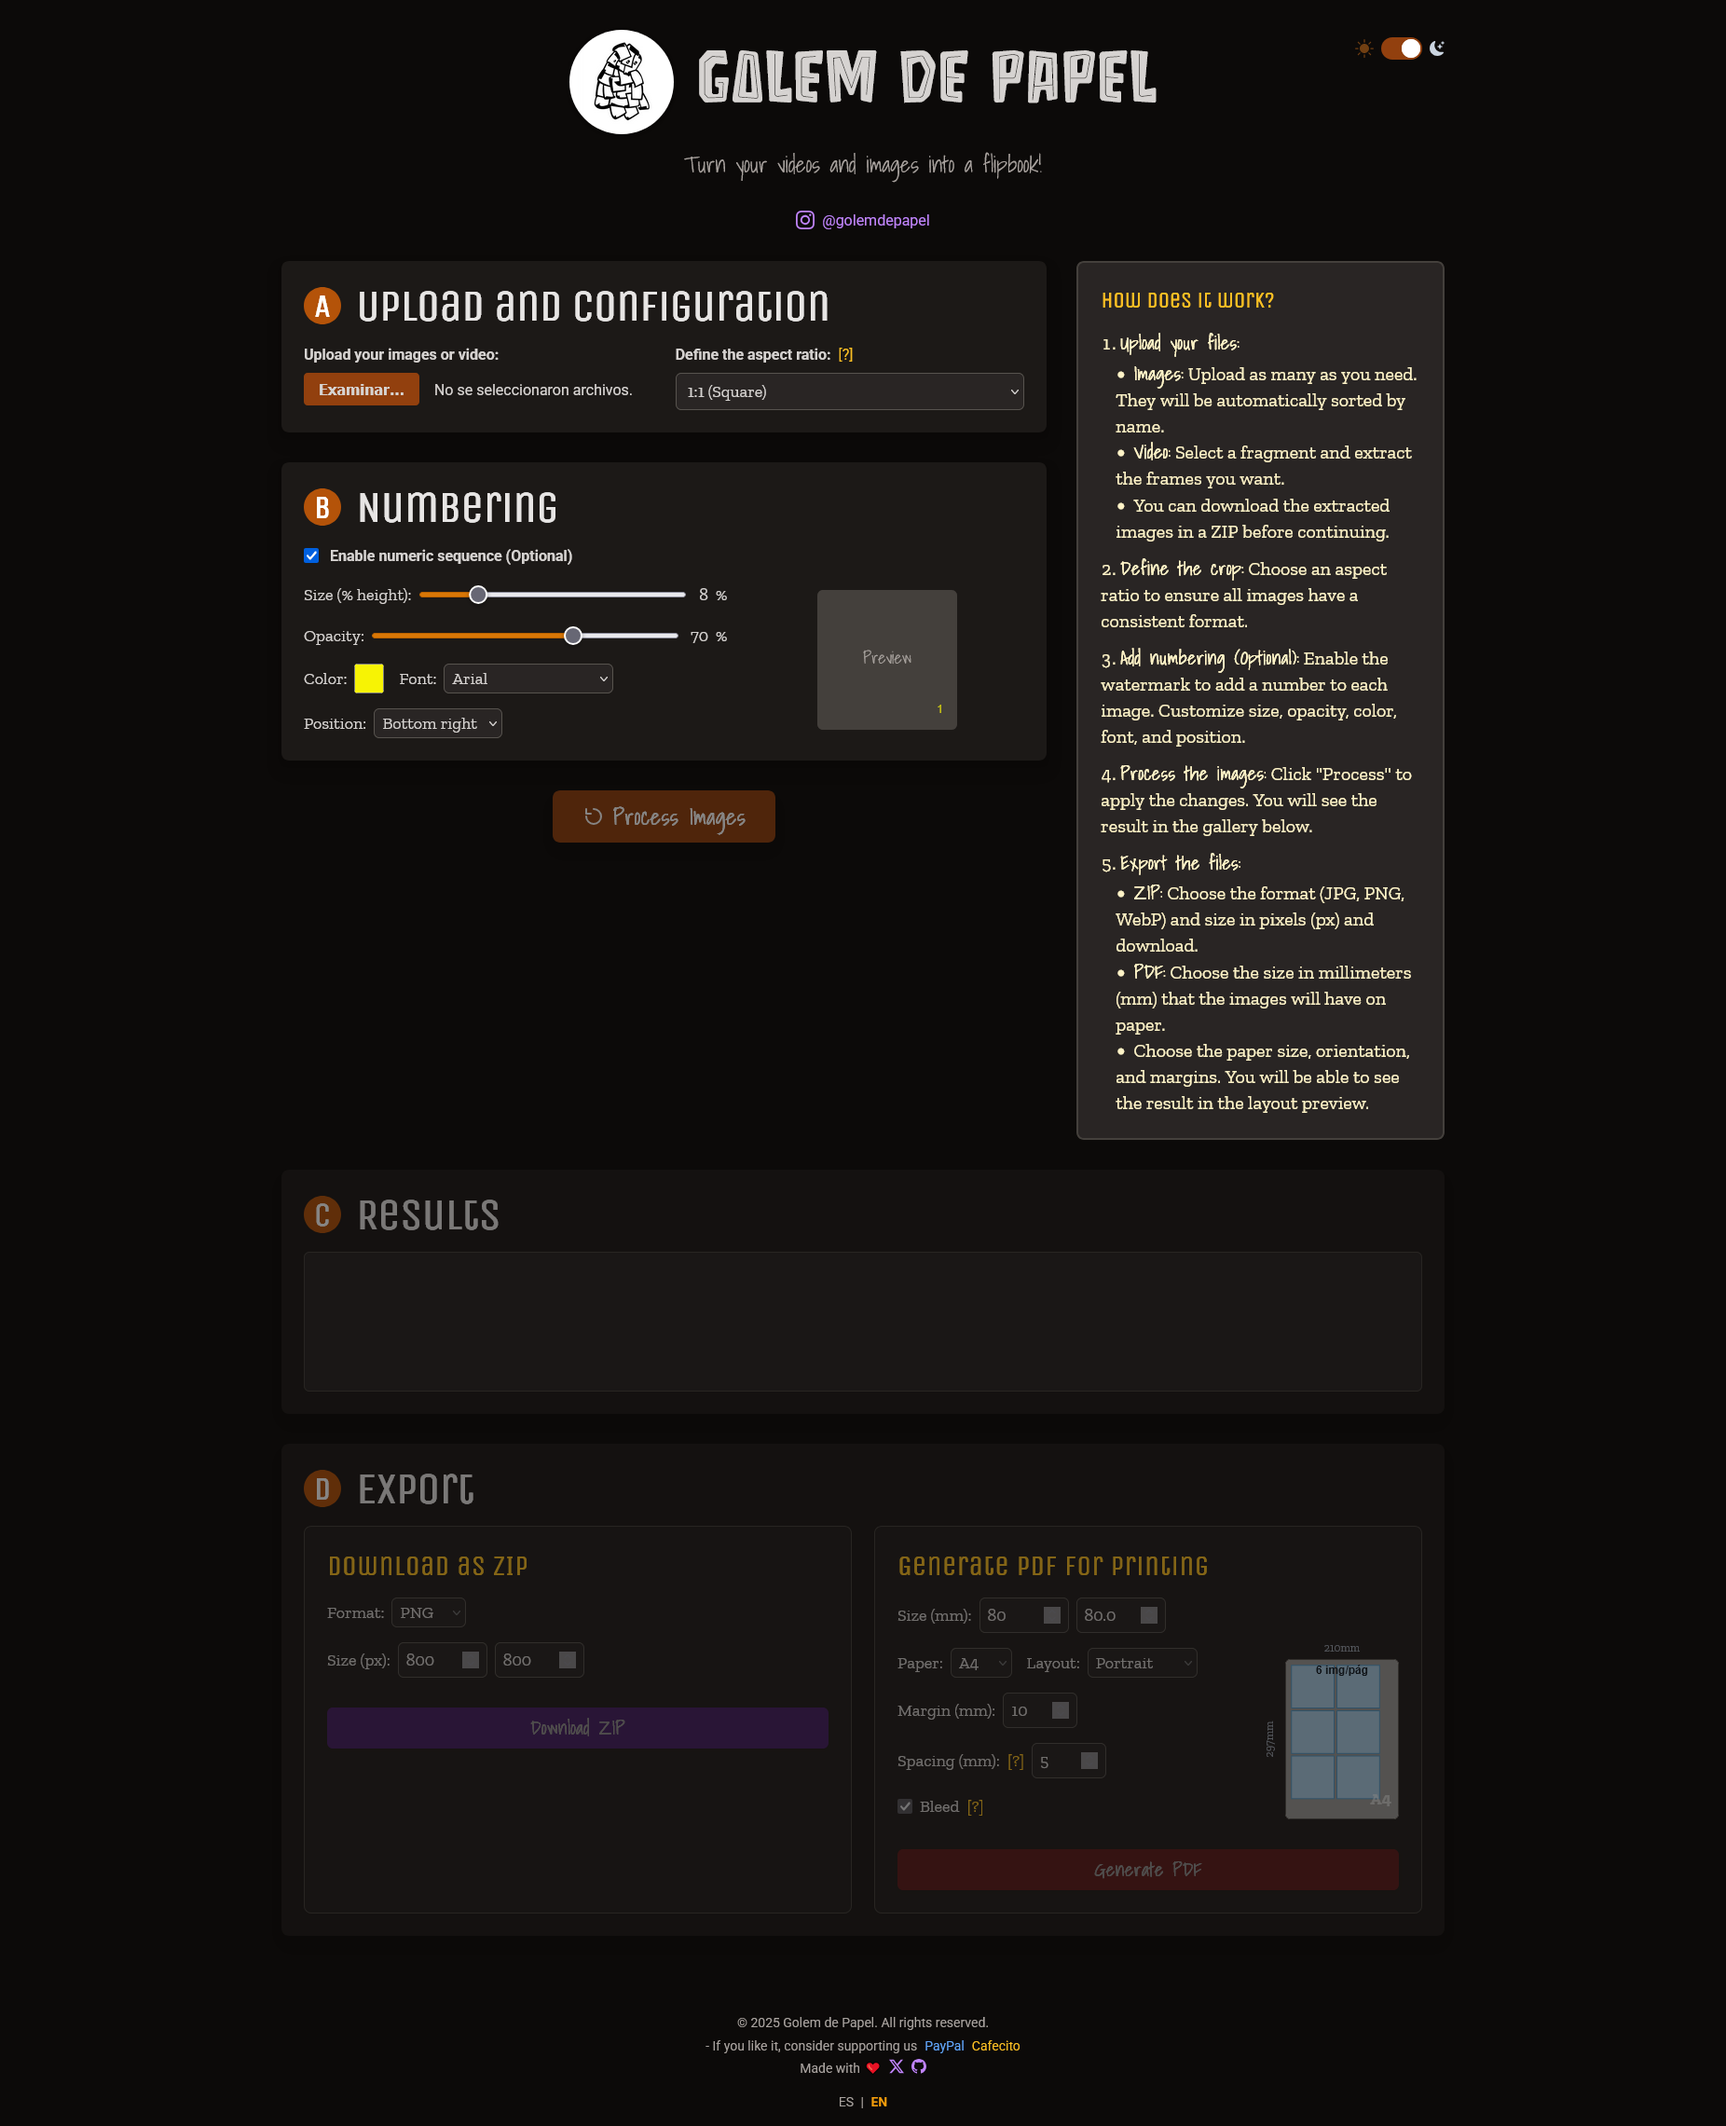
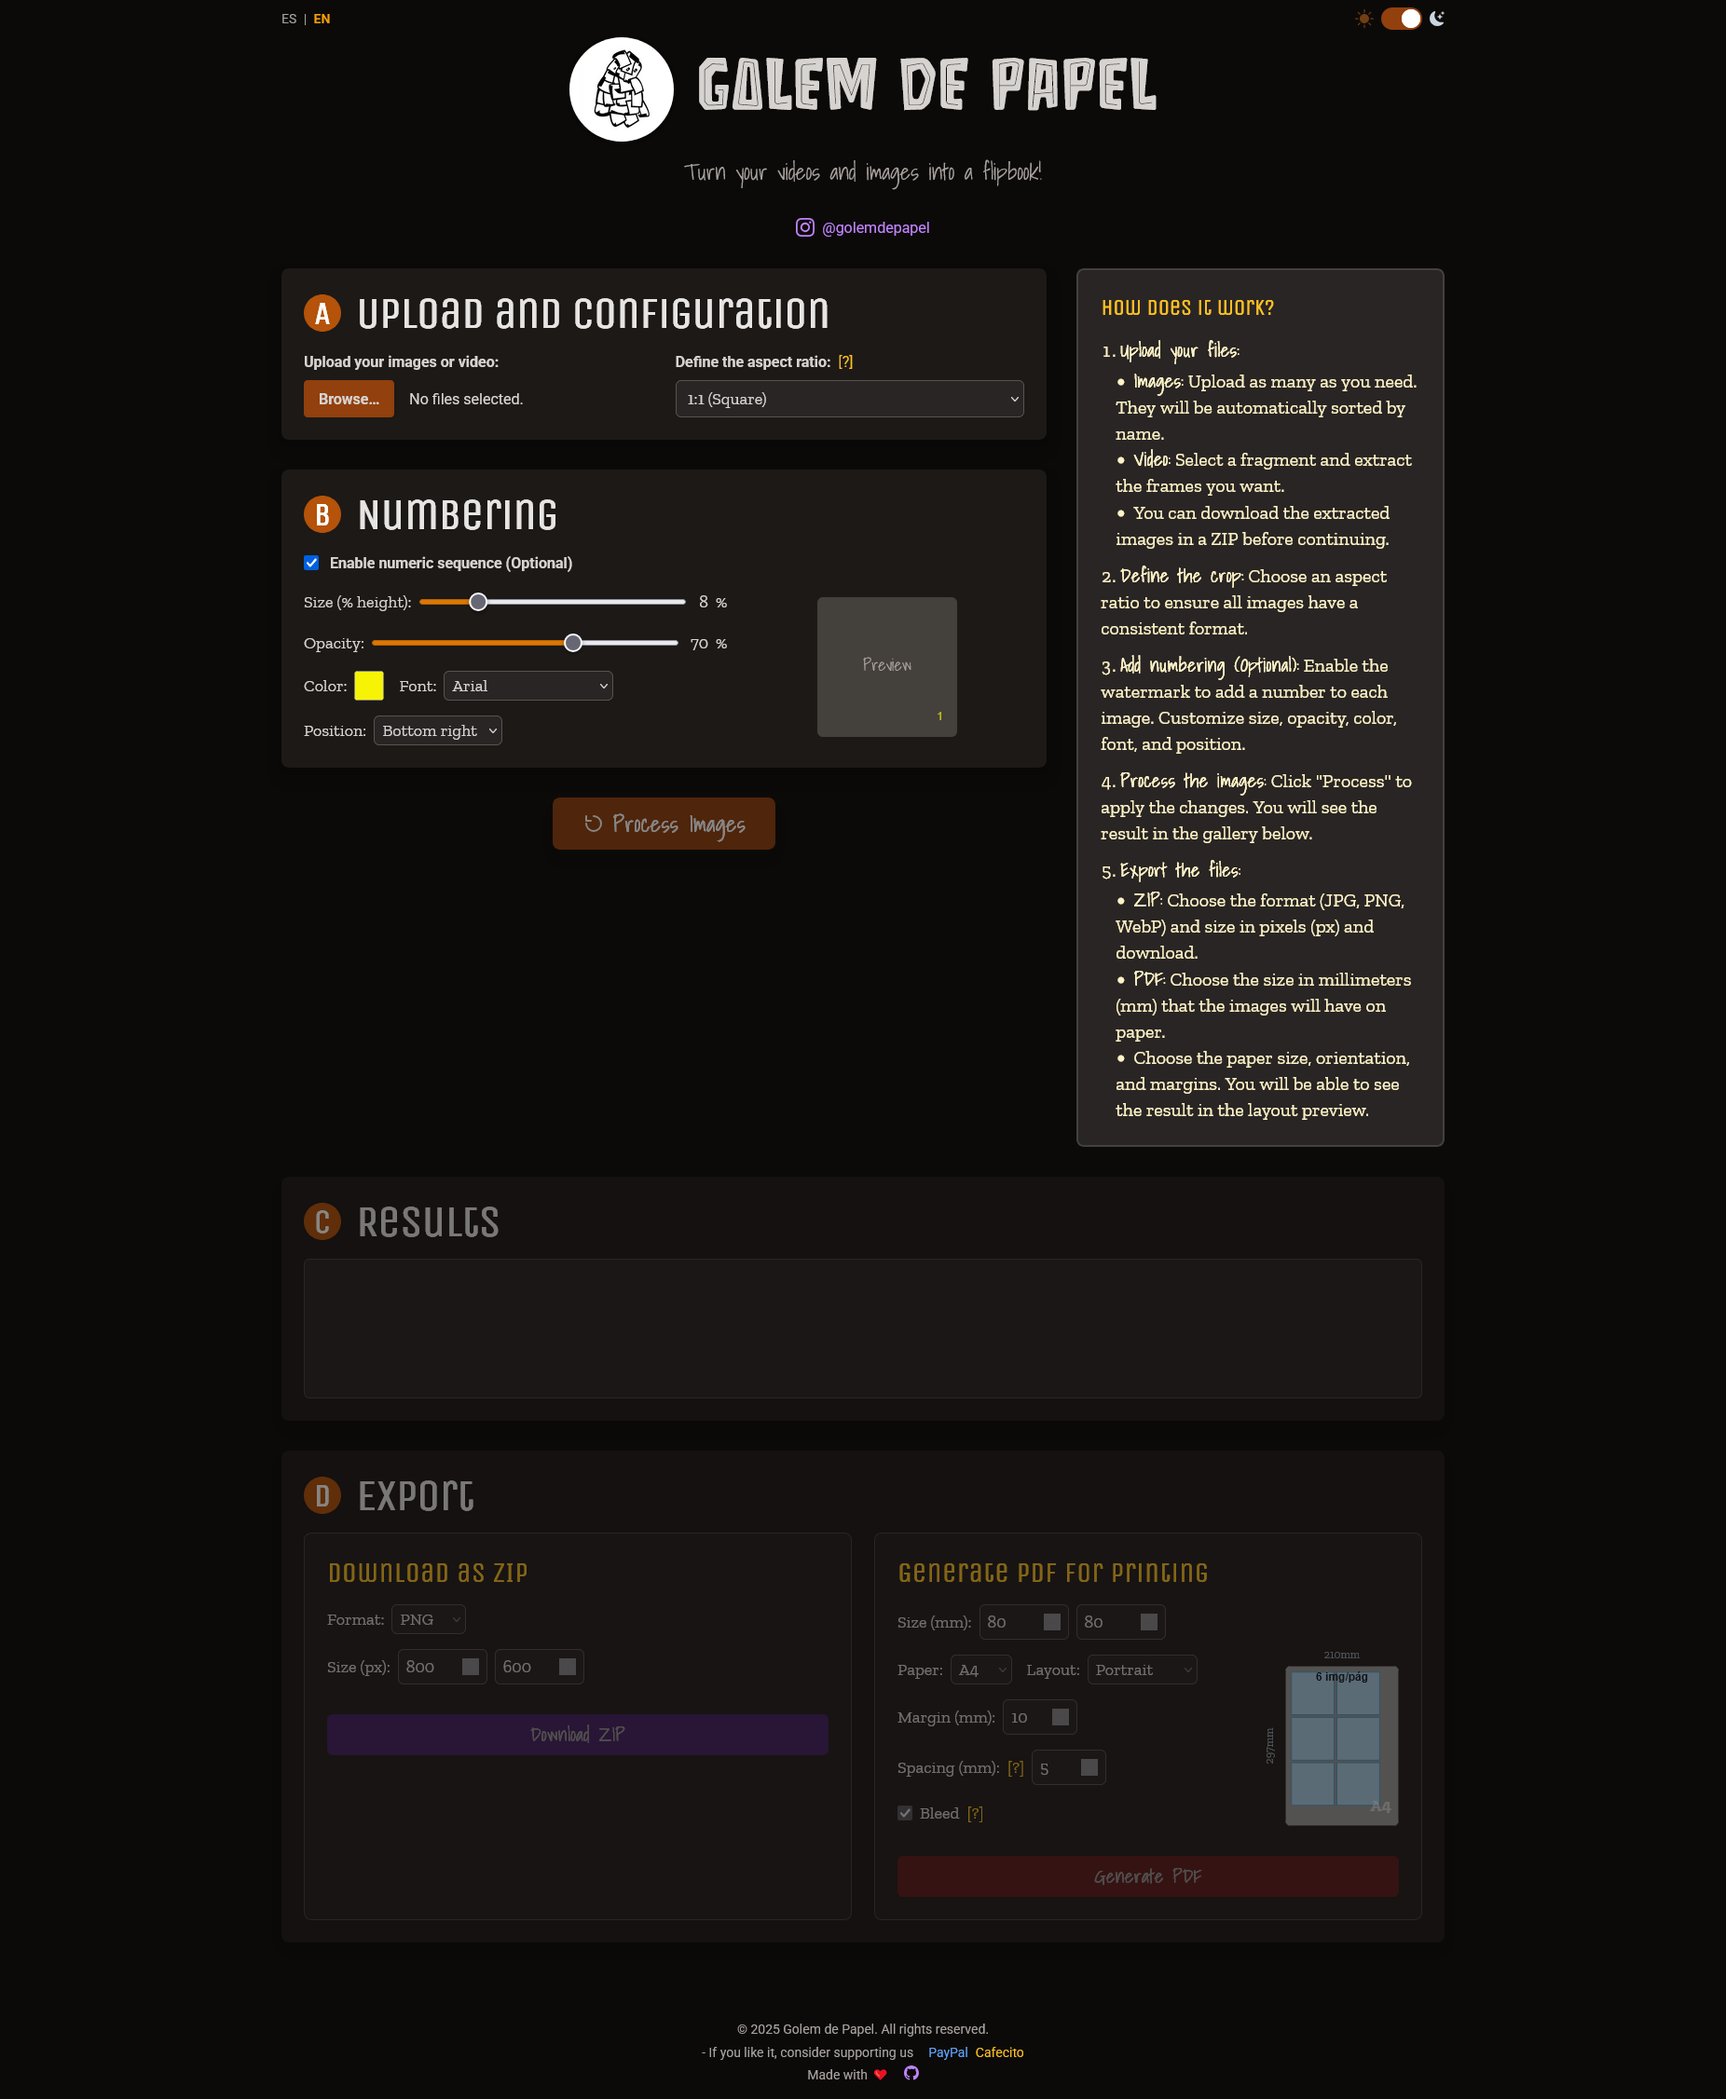
fix: UI idiomas en top, README nuevo prueba

diff --git a/docs/index.html b/docs/index.html
@@ -48,32 +48,40 @@
 </head>
 
 <body class="bg-stone-100 dark:bg-stone-950 min-h-screen">
-  <header class="mx-auto max-w-7xl flex flex-col items-center mt-8 mb-4 relative">
-    <!-- Toggle dark/light (desktop) -->
-    <div class="absolute rotate-90 -right-4 top-10 md:rotate-0 md:right-4 md:top-2 md:block">
-      <label class="relative inline-flex items-center gap-2">
-        <!-- Icono del sol -->
-        <svg xmlns="http://www.w3.org/2000/svg" width="20" height="20" fill="currentColor"
-          class="text-yellow-500 dark:text-yellow-900" viewBox="0 0 16 16">
-          <path
-            d="M12 8a4 4 0 1 1-8 0 4 4 0 0 1 8 0M8 0a.5.5 0 0 1 .5.5v2a.5.5 0 0 1-1 0v-2A.5.5 0 0 1 8 0m0 13a.5.5 0 0 1 .5.5v2a.5.5 0 0 1-1 0v-2A.5.5 0 0 1 8 13m8-5a.5.5 0 0 1-.5.5h-2a.5.5 0 0 1 0-1h2a.5.5 0 0 1 .5.5M3 8a.5.5 0 0 1-.5.5h-2a.5.5 0 0 1 0-1h2A.5.5 0 0 1 3 8m10.657-5.657a.5.5 0 0 1 0 .707l-1.414 1.415a.5.5 0 1 1-.707-.708l1.414-1.414a.5.5 0 0 1 .707 0m-9.193 9.193a.5.5 0 0 1 0 .707L3.05 13.657a.5.5 0 0 1-.707-.707l1.414-1.414a.5.5 0 0 1 .707 0m9.193 2.121a.5.5 0 0 1-.707 0l-1.414-1.414a.5.5 0 0 1 .707-.707l1.414 1.414a.5.5 0 0 1 0 .707M4.464 4.465a.5.5 0 0 1-.707 0L2.343 3.05a.5.5 0 1 1 .707-.707l1.414 1.414a.5.5 0 0 1 0 .708" />
-        </svg>
-        <!-- Switch -->
-        <div class="relative">
-          <input type="checkbox" id="toggleDark" class="sr-only peer">
-          <div
-            class="w-11 h-6 bg-blue-200 rounded-full peer peer-checked:after:translate-x-5 peer-checked:after:border-white after:content-[''] after:absolute after:top-[2px] after:left-[2px] after:bg-white after:border-gray-300 after:border after:rounded-full after:h-5 after:w-5 after:transition-all peer-checked:bg-blue-600 dark:peer-checked:bg-amber-800 dark:bg-gray-700">
+  <header class="mx-auto max-w-7xl flex flex-col items-center mb-4 relative">
+    <div class="bg-stone-100 dark:bg-stone-950 text-stone-600 dark:text-stone-400 mt-2 mb-2 flex items-center justify-between w-full px-4 h-6">
+      <!-- Language Links -->
+      <div class="text-sm font-medium">
+        <span id="lang-es" class="cursor-pointer transition-colors duration-300">ES</span>
+        <span class="mx-1">|</span>
+        <span id="lang-en" class="cursor-pointer transition-colors duration-300">EN</span>
+      </div>
+      <!-- Toggle dark/light (desktop) -->
+      <div class="absolute rotate-90 -right-4 mt-8 md:mt-0 top-10 md:rotate-0 md:right-4 md:top-2 md:block">
+        <label class="relative inline-flex items-center gap-2">
+          <!-- Icono del sol -->
+          <svg xmlns="http://www.w3.org/2000/svg" width="20" height="20" fill="currentColor"
+            class="text-yellow-500 dark:text-yellow-900" viewBox="0 0 16 16">
+            <path
+              d="M12 8a4 4 0 1 1-8 0 4 4 0 0 1 8 0M8 0a.5.5 0 0 1 .5.5v2a.5.5 0 0 1-1 0v-2A.5.5 0 0 1 8 0m0 13a.5.5 0 0 1 .5.5v2a.5.5 0 0 1-1 0v-2A.5.5 0 0 1 8 13m8-5a.5.5 0 0 1-.5.5h-2a.5.5 0 0 1 0-1h2a.5.5 0 0 1 .5.5M3 8a.5.5 0 0 1-.5.5h-2a.5.5 0 0 1 0-1h2A.5.5 0 0 1 3 8m10.657-5.657a.5.5 0 0 1 0 .707l-1.414 1.415a.5.5 0 1 1-.707-.708l1.414-1.414a.5.5 0 0 1 .707 0m-9.193 9.193a.5.5 0 0 1 0 .707L3.05 13.657a.5.5 0 0 1-.707-.707l1.414-1.414a.5.5 0 0 1 .707 0m9.193 2.121a.5.5 0 0 1-.707 0l-1.414-1.414a.5.5 0 0 1 .707-.707l1.414 1.414a.5.5 0 0 1 0 .707M4.464 4.465a.5.5 0 0 1-.707 0L2.343 3.05a.5.5 0 1 1 .707-.707l1.414 1.414a.5.5 0 0 1 0 .708" />
+          </svg>
+          <!-- Switch -->
+          <div class="relative">
+            <input type="checkbox" id="toggleDark" class="sr-only peer">
+            <div
+              class="w-11 h-6 bg-blue-200 rounded-full peer peer-checked:after:translate-x-5 peer-checked:after:border-white after:content-[''] after:absolute after:top-[2px] after:left-[2px] after:bg-white after:border-gray-300 after:border after:rounded-full after:h-5 after:w-5 after:transition-all peer-checked:bg-blue-600 dark:peer-checked:bg-amber-800 dark:bg-gray-700">
+            </div>
           </div>
-        </div>
-        <!-- Icono de la luna -->
-        <svg xmlns="http://www.w3.org/2000/svg" width="16" height="16" fill="currentColor"
-          class="-rotate-90 md:rotate-0 text-slate-950 dark:text-slate-300" viewBox="0 0 16 16">
-          <path
-            d="M6 .278a.77.77 0 0 1 .08.858 7.2 7.2 0 0 0-.878 3.46c0 4.021 3.278 7.277 7.318 7.277q.792-.001 1.533-.16a.79.79 0 0 1 .81.316.73.73 0 0 1-.031.893A8.35 8.35 0 0 1 8.344 16C3.734 16 0 12.286 0 7.71 0 4.266 2.114 1.312 5.124.06A.75.75 0 0 1 6 .278" />
-          <path
-            d="M10.794 3.148a.217.217 0 0 1 .412 0l.387 1.162c.173.518.579.924 1.097 1.097l1.162.387a.217.217 0 0 1 0 .412l-1.162.387a1.73 1.73 0 0 0-1.097 1.097l-.387 1.162a.217.217 0 0 1-.412 0l-.387-1.162A1.73 1.73 0 0 0 9.31 6.593l-1.162-.387a.217.217 0 0 1 0-.412l1.162-.387a1.73 1.73 0 0 0 1.097-1.097zM13.863.099a.145.145 0 0 1 .274 0l.258.774c.115.346.386.617.732.732l.774.258a.145.145 0 0 1 0 .274l-.774.258a1.16 1.16 0 0 0-.732.732l-.258.774a.145.145 0 0 1-.274 0l-.258-.774a1.16 1.16 0 0 0-.732-.732l-.774-.258a.145.145 0 0 1 0-.274l.774-.258c.346-.115.617-.386.732-.732z" />
-        </svg>
-      </label>
+          <!-- Icono de la luna -->
+          <svg xmlns="http://www.w3.org/2000/svg" width="16" height="16" fill="currentColor"
+            class="-rotate-90 md:rotate-0 text-slate-950 dark:text-slate-300" viewBox="0 0 16 16">
+            <path
+              d="M6 .278a.77.77 0 0 1 .08.858 7.2 7.2 0 0 0-.878 3.46c0 4.021 3.278 7.277 7.318 7.277q.792-.001 1.533-.16a.79.79 0 0 1 .81.316.73.73 0 0 1-.031.893A8.35 8.35 0 0 1 8.344 16C3.734 16 0 12.286 0 7.71 0 4.266 2.114 1.312 5.124.06A.75.75 0 0 1 6 .278" />
+            <path
+              d="M10.794 3.148a.217.217 0 0 1 .412 0l.387 1.162c.173.518.579.924 1.097 1.097l1.162.387a.217.217 0 0 1 0 .412l-1.162.387a1.73 1.73 0 0 0-1.097 1.097l-.387 1.162a.217.217 0 0 1-.412 0l-.387-1.162A1.73 1.73 0 0 0 9.31 6.593l-1.162-.387a.217.217 0 0 1 0-.412l1.162-.387a1.73 1.73 0 0 0 1.097-1.097zM13.863.099a.145.145 0 0 1 .274 0l.258.774c.115.346.386.617.732.732l.774.258a.145.145 0 0 1 0 .274l-.774.258a1.16 1.16 0 0 0-.732.732l-.258.774a.145.145 0 0 1-.274 0l-.258-.774a1.16 1.16 0 0 0-.732-.732l-.774-.258a.145.145 0 0 1 0-.274l.774-.258c.346-.115.617-.386.732-.732z" />
+          </svg>
+        </label>
+      </div>
     </div>
 
     <!-- Logo y título -->
@@ -624,29 +632,14 @@
     </div>
     <div class="flex justify-center space-x-2 mt-1 text-sm">
       <span data-i18n="footer.madeWith">Hecho con ❤</span>
-      <a href="https://www.x.com/ramadayenchi/" target="_blank" rel="noopener"
-        class="text-blue-600 hover:text-pink-600 dark:text-purple-400 dark:hover:text-amber-300">
-        <svg xmlns="http://www.w3.org/2000/svg" width="16" height="16" fill="currentColor" viewBox="0 0 16 16">
-          <path
-            d="M12.6.75h2.454l-5.36 6.142L16 15.25h-4.937l-3.867-5.07-4.425 5.07H.316l5.733-6.57L0 .75h5.063l3.495 4.633L12.601.75Zm-.86 13.028h1.36L4.323 2.145H2.865z" />
-        </svg>
-      </a>
       <a href="https://www.github.com/ramamc/golem/" target="_blank" rel="noopener"
-        class="text-blue-600 hover:text-pink-600 dark:text-purple-400 dark:hover:text-amber-300">
-        <svg xmlns="http://www.w3.org/2000/svg" width="16" height="16" fill="currentColor" class="bi bi-github"
-          viewBox="0 0 16 16">
+        class="text-blue-600 hover:text-pink-600 dark:text-purple-400 dark:hover:text-amber-300 items-center">
+        <svg xmlns="http://www.w3.org/2000/svg" width="16" height="16" fill="currentColor" viewBox="0 0 16 16">
           <path
             d="M8 0C3.58 0 0 3.58 0 8c0 3.54 2.29 6.53 5.47 7.59.4.07.55-.17.55-.38 0-.19-.01-.82-.01-1.49-2.01.37-2.53-.49-2.69-.94-.09-.23-.48-.94-.82-1.13-.28-.15-.68-.52-.01-.53.63-.01 1.08.58 1.23.82.72 1.21 1.87.87 2.33.66.07-.52.28-.87.51-1.07-1.78-.2-3.64-.89-3.64-3.95 0-.87.31-1.59.82-2.15-.08-.2-.36-1.02.08-2.12 0 0 .67-.21 2.2.82.64-.18 1.32-.27 2-.27s1.36.09 2 .27c1.53-1.04 2.2-.82 2.2-.82.44 1.1.16 1.92.08 2.12.51.56.82 1.27.82 2.15 0 3.07-1.87 3.75-3.65 3.95.29.25.54.73.54 1.48 0 1.07-.01 1.93-.01 2.2 0 .21.15.46.55.38A8.01 8.01 0 0 0 16 8c0-4.42-3.58-8-8-8" />
         </svg>
       </a>
-    </div>
-
-    <!-- Language Links -->
-    <div class="mt-4 text-sm font-medium">
-      <span id="lang-es" class="cursor-pointer transition-colors duration-300">ES</span>
-      <span class="mx-1">|</span>
-      <span id="lang-en" class="cursor-pointer transition-colors duration-300">EN</span>
-    </div>
+    </div>   
   </footer>
 
   <script src="https://cdnjs.cloudflare.com/ajax/libs/jszip/3.10.1/jszip.min.js"></script>
@@ -655,8 +648,7 @@
   <!-- i18next -->
   <script src="https://cdnjs.cloudflare.com/ajax/libs/i18next/23.11.5/i18next.min.js"></script>
   <script src="https://cdnjs.cloudflare.com/ajax/libs/i18next-http-backend/2.5.2/i18nextHttpBackend.min.js"></script>
-  <script
-    src="https://cdnjs.cloudflare.com/ajax/libs/i18next-browser-languagedetector/8.0.0/i18nextBrowserLanguageDetector.min.js"></script>
+  <script src="https://cdnjs.cloudflare.com/ajax/libs/i18next-browser-languagedetector/8.0.0/i18nextBrowserLanguageDetector.min.js"></script>
   <!-- Main JS -->
   <script src="dist/main.js"></script>
 </body>

diff --git a/docs/dist/main.js b/docs/dist/main.js
@@ -210,7 +210,7 @@
         },
         "footer": {
           "copyright": "&copy; 2025 Golem de Papel. Todos los derechos reservados.",
-          "madeWith": "Hecho con ❤ por",
+          "madeWith": "Hecho con ❤ ",
           "supportMe": " - Si te gusta, considera apoyarnos"
         },
         "step1": {
@@ -306,7 +306,7 @@
         },
         "footer": {
           "copyright": "&copy; 2025 Golem de Papel. All rights reserved.",
-          "madeWith": "Made with ❤ by",
+          "madeWith": "Made with ❤ ",
           "supportMe": " - If you like it, consider supporting us"
         },
         "step1": {

diff --git a/README.md b/README.md
@@ -8,38 +8,44 @@
 
 ---
 
-## 📖 Descripción  
-Pequeña web app de edición de imágenes para imprimir y utilizar en la construcción de folioscopios mecánicos.
-
----
-
-## 🚀 Características  
-- 📂 Carga y previsualización de imágenes  
-- ✂ Ajuste de relación de aspecto y tamaño 
-- 📦 Descarga en ZIP  
-
----
-
-## 📦 Instalación y uso  
-1. Clonar este repositorio  
-   ```bash
-   git clone https://github.com/ramamc/Golem.git
-   ```
-2. Abrir el archivo `index.html` en tu navegador  
-3. ¡Listo!  
-
----
-
-## 🤝 Contribuir  
-Si quieres colaborar:  
-1. Haz un fork  
-2. Crea una nueva rama (`git checkout -b feature/nueva-funcion`)  
-3. Haz tus cambios y haz commit (`git commit -m 'Agrego nueva función'`)  
-4. Haz push a tu rama (`git push origin feature/nueva-funcion`)  
-5. Abre un Pull Request  
-
----
-
-## 📜 Licencia  
-© 2025 Golem de Papel. Todos los derechos reservados.
+| Español | English |
+|---------|---------|
+| ## 📖 Descripción  
+<br> **Golem de Papel** es una aplicación web ligera para preparar imágenes destinadas a la construcción de folioscopios mecánicos. 
+<br> Permite cargar imágenes o videos, editarlos y exportarlos en un formato listo para imprimir y montar. 
+| ## 📖 Description  
+<br> **Golem de Papel** is a lightweight web application to prepare images for building mechanical flipbooks. 
+<br> It allows users to load images or videos, edit them, and export ready-to-print layouts. |
+| ### 🚀 Funcionalidades 
+<br> - Carga de imágenes y extracción de fotogramas desde video 
+<br> - Herramientas de recorte, escala y ajuste de relación de aspecto 
+<br> - Organización de secuencias para folioscopios 
+<br> - Exportación a PDF con marcas de corte 
+<br> - Descarga opcional en ZIP 
+<br> - Funciona localmente en el navegador, sin servidor 
+| ### 🚀 Key Features 
+<br> - Import images or extract frames from video 
+<br> - Crop, scale, and aspect-ratio adjustment tools 
+<br> - Sequence organization for flipbook construction 
+br> - PDF export with cut marks 
+<br> - Optional ZIP package download 
+<br> - Runs locally in the browser, no server required |
+| ### ⚙ Instalación y uso 
+<br> 1. Clonar el repositorio:  
+<br> ```bash 
+<br> git clone https://github.com/ramamc/Golem.git 
+<br> ``` 
+<br> 2. Abrir `index.html` en un navegador moderno 
+<br> 3. No requiere instalación adicional 
+| ### ⚙ Installation & Usage 
+<br> 1. Clone the repository:  
+<br> ```bash 
+<br> git clone https://github.com/ramamc/Golem.git 
+<br> ``` 
+<br> 2. Open `index.html` in any modern browser 
+<br> 3. No additional setup required |
+| ### 📜 Licencia 
+<br> © 2025 Golem de Papel. Todos los derechos reservados. 
+| ### 📜 License 
+<br> © 2025 Golem de Papel. All rights reserved. |
 
